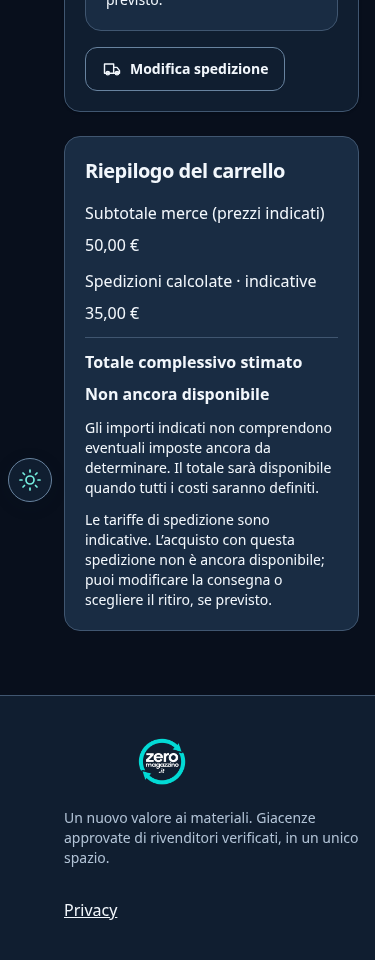
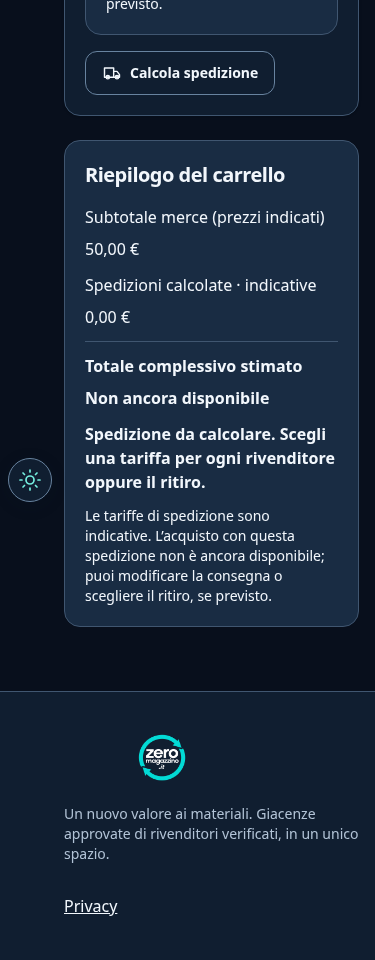
Ensure calculator control and focus contrast in both themes

diff --git a/resources/css/app.css b/resources/css/app.css
@@ -217,3 +217,8 @@
 /* Keep the primary action legible while hovered in both themes. */
 .btn-primary:hover:not(:disabled) { background-color: #096b60; color: #ffffff; }
 .btn-primary { transition-property: box-shadow; }
+/* Non-text contrast for calculator control outlines and white selection marks. */
+.shipping-dialog { --color-control: #73818f; }
+.shipping-dialog input[type='checkbox'], .shipping-dialog input[type='radio'] { color: #087f70; }
+.shipping-dialog .field:focus { border-color: var(--color-brand-700); }
+.shipping-dialog :focus-visible { outline-color: var(--color-brand-700); --tw-ring-color: var(--color-brand-700); }

diff --git a/docs/shipping-cart-checkout-ux.md b/docs/shipping-cart-checkout-ux.md
@@ -31,7 +31,7 @@ Tutti i dati nelle immagini sono fixture locali e le risposte Sendcloud sono sim
 - [Carrello mobile, tema scuro](images/shipping-ux/cart-mobile-dark.png): importi per rivenditore e riepilogo generale.
 - [Checkout informativo desktop](images/shipping-ux/checkout-informativo.png): costi disponibili e assenza della conferma ordine.
 
-Chromium/Playwright: popup a 375 e 1280 px in entrambi i temi; carrello a 320/375/768/1280 px in entrambi i temi. Verificati contrasto anche in hover, assenza di overflow orizzontale, WCAG 2 A/AA e 2.1 AA con axe (zero violazioni nelle pagine/pannelli verificati), errori in italiano, indirizzo salvato/alternativo, focus con Escape, due rivenditori e più prodotti del primo, selezione/modifica dal carrello e riepilogo bloccato. Nessun errore JavaScript. Il limite di 10 richieste/minuto rimane attivo durante le prove. Verificata anche la selezione in corso in due calcolatori: ogni gruppo radio ha un nome distinto e la scelta del primo rivenditore rimane selezionata dopo aver scelto il servizio del secondo.
+Chromium/Playwright: popup a 375 e 1280 px in entrambi i temi; carrello a 320/375/768/1280 px in entrambi i temi. Verificati contrasto anche in hover, assenza di overflow orizzontale, WCAG 2 A/AA e 2.1 AA con axe (zero violazioni nelle pagine/pannelli verificati), errori in italiano, indirizzo salvato/alternativo, focus con Escape, due rivenditori e più prodotti del primo, selezione/modifica dal carrello e riepilogo bloccato. Nessun errore JavaScript. Misurato inoltre un contrasto di almeno 3:1 tra bordo e sfondo dei campi (anche in focus) e tra sfondo e segno bianco di checkbox/radio selezionati, in entrambi i temi. Il limite di 10 richieste/minuto rimane attivo durante le prove. Verificata anche la selezione in corso in due calcolatori: ogni gruppo radio ha un nome distinto e la scelta del primo rivenditore rimane selezionata dopo aver scelto il servizio del secondo.
 
 ## Test automatici
 
